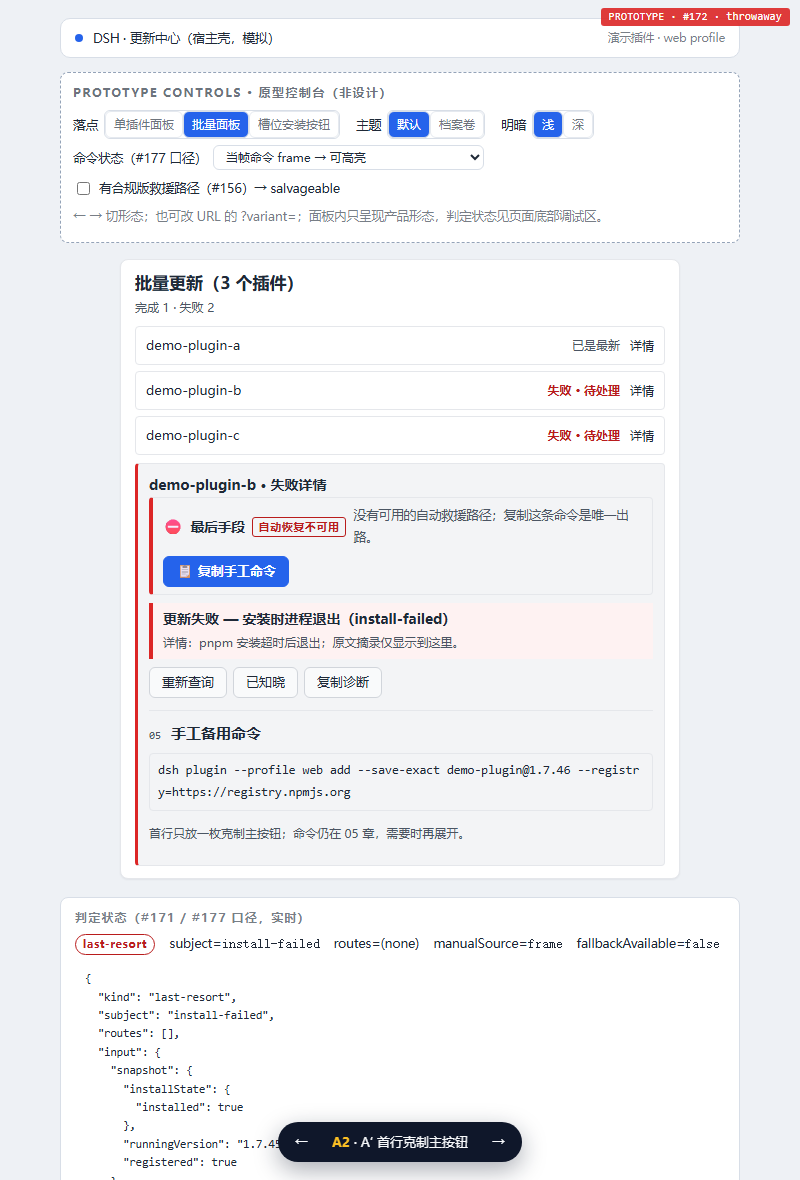
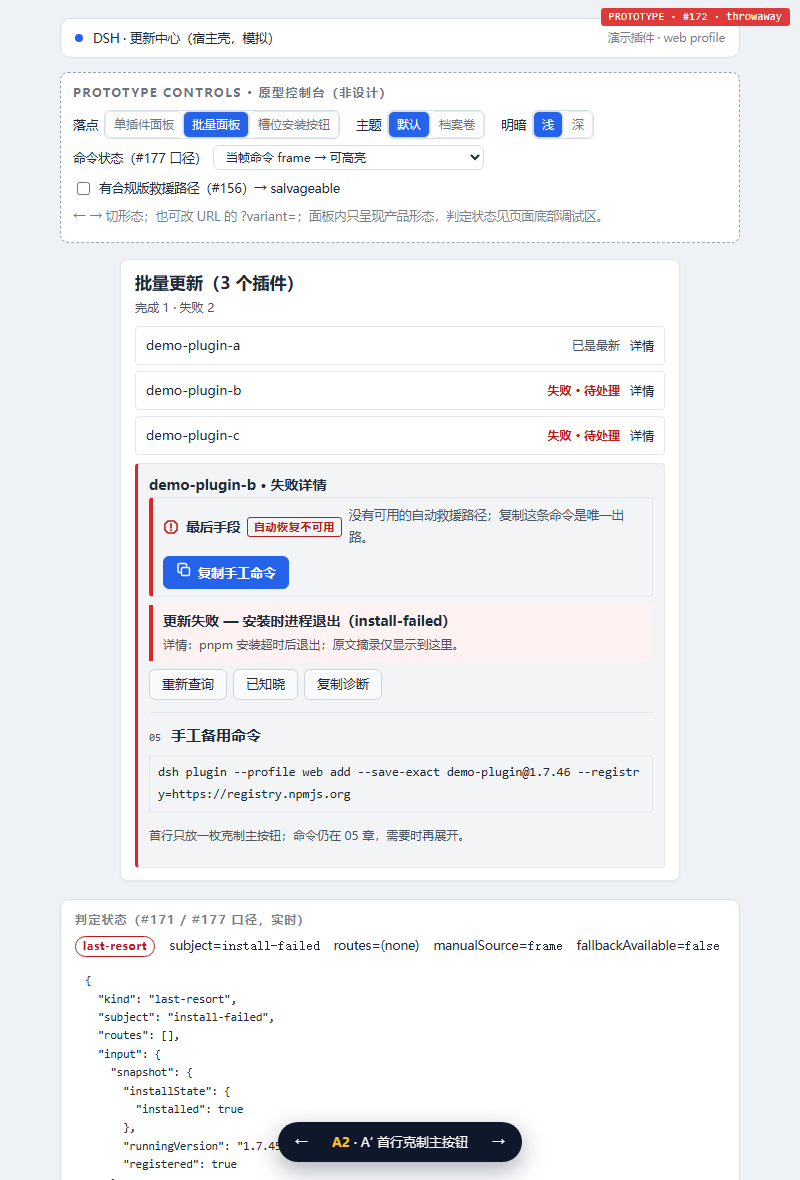
prototype(#172): 去 emoji 改内联 SVG 图标，补按钮交互与复制反馈

diff --git a/src/prototypes/172-last-resort.html b/src/prototypes/172-last-resort.html
@@ -179,7 +179,22 @@
     padding: 0 6px; border-radius: var(--dsh-update-radius-badge);
     border: 1px solid currentColor; vertical-align: 1px;
   }
-  .lr-icon { font-size: 15px; line-height: 1; }
+  .lr-icon { font-size: 15px; line-height: 1; display: inline-flex; align-items: center; }
+  .lr-icon svg { display: block; }
+  .lr-B .lr-icon svg { width: 22px; height: 22px; }
+
+  /* 按钮交互效果（实现规格同源）：hover 提亮 / active 下压 / focus-visible 焦点环 / 复制成功反馈 */
+  .dsh-upd button {
+    cursor: pointer;
+    transition: background-color 120ms ease, border-color 120ms ease, color 120ms ease,
+      filter 120ms ease, transform 80ms ease, box-shadow 120ms ease;
+  }
+  .dsh-upd button:hover { filter: brightness(1.06); }
+  .dsh-upd button:active { transform: translateY(1px); filter: brightness(.97); }
+  .dsh-upd button:focus-visible { outline: 2px solid var(--dsh-update-primary); outline-offset: 2px; }
+  .dsh-upd button:disabled { cursor: default; filter: none; }
+  .dsh-upd button.copied { box-shadow: 0 0 0 2px var(--dsh-update-bg, #fff), 0 0 0 4px var(--dsh-update-bad-border); }
+  .dsh-upd button.cta .icon { margin-right: 6px; }
 
   /* A：告警条内联主按钮（失败横幅第一行） */
   .lr-A { border: 2px solid var(--dsh-update-bad-border); border-radius: 6px; background: var(--dsh-update-bad-bg); padding: 9px 11px; margin: 0 0 8px; }
@@ -217,7 +232,7 @@
   /* C：动作行前置主按钮（结构不动，只把按钮拉到第一颗并升主按钮） */
   .lr-C .promote { display: flex; align-items: center; gap: 8px; margin: 0 0 6px; font-size: 12.5px; color: var(--dsh-update-bad-text); }
   .lr-C .actions button.cta { font-weight: 700; }
-  .lr-C .actions button.cta::after { content: " →"; }
+
 
   /* D：加码档——失败块顶部通栏警示条 + 大号入口 */
   .lr-D .stripbar {
@@ -440,13 +455,31 @@ function nonLastResortBlock() {
 }
 
 /* ───────────────────────── 四档形态 ───────────────────────── */
+function iconSvg(kind) {
+  var head = 'viewBox="0 0 16 16" fill="none" xmlns="http://www.w3.org/2000/svg" aria-hidden="true" focusable="false"';
+  if (kind === 'alert') {
+    return '<svg class="icon" width="16" height="16" ' + head + '>' +
+      '<path d="M5.1 1.9h5.8l3.2 3.2v5.8l-3.2 3.2H5.1l-3.2-3.2V5.1l3.2-3.2Z" stroke="currentColor" stroke-width="1.5" stroke-linejoin="round"/>' +
+      '<path d="M8 4.9v3.9" stroke="currentColor" stroke-width="1.7" stroke-linecap="round"/>' +
+      '<circle cx="8" cy="11.2" r="0.95" fill="currentColor"/>' +
+    '</svg>';
+  }
+  if (kind === 'copy') {
+    return '<svg class="icon" width="16" height="16" ' + head + '>' +
+      '<rect x="5.4" y="5.4" width="8.1" height="8.1" rx="1.6" stroke="currentColor" stroke-width="1.5"/>' +
+      '<path d="M10.6 3.9v-.7c0-.9-.7-1.6-1.6-1.6H3.6c-.9 0-1.6.7-1.6 1.6v5.8c0 .9.7 1.6 1.6 1.6H4.3" stroke="currentColor" stroke-width="1.5" stroke-linecap="round"/>' +
+    '</svg>';
+  }
+  return '';
+}
+
 function blockA() {
   return '' +
     '<div class="lr-A" data-last-resort="1">' +
-      '<div class="row1"><span class="lr-icon">⛔</span><strong>最后手段</strong>' +
+      '<div class="row1"><span class="lr-icon">' + iconSvg('alert') + '</span><strong>最后手段</strong>' +
         '<span class="lr-label">自动恢复不可用</span></div>' +
       '<div class="row2"><span class="reason">没有可用的自动救援路径；复制这条命令是唯一出路。</span>' +
-        '<button type="button" class="primary cta">📋 复制手工命令</button></div>' +
+        '<button type="button" class="primary cta">' + iconSvg('copy') + '复制手工命令</button></div>' +
       commandLine() +
     '</div>' + banner() +
     '<div class="actions">' + subActions(true) + '</div>' +
@@ -456,10 +489,10 @@ function blockA() {
 function blockA2() {
   return '' +
     '<div class="lr-A2" data-last-resort="1">' +
-      '<span class="lr-icon">⛔</span><strong>最后手段</strong>' +
+      '<span class="lr-icon">' + iconSvg('alert') + '</span><strong>最后手段</strong>' +
       '<span class="lr-label">自动恢复不可用</span>' +
       '<span class="reason">没有可用的自动救援路径；复制这条命令是唯一出路。</span>' +
-      '<button type="button" class="primary cta">📋 复制手工命令</button>' +
+      '<button type="button" class="primary cta">' + iconSvg('copy') + '复制手工命令</button>' +
     '</div>' + banner() +
     '<div class="actions">' + subActions() + '</div>' +
     '<div class="chapter"><div class="chap-head"><span class="chap-no">05</span><h3 class="chap-title">手工备用命令</h3></div>' +
@@ -483,10 +516,10 @@ function blockB() {
 function blockC() {
   return '' +
     '<div class="lr-C" data-last-resort="1">' +
-      '<div class="promote"><span class="lr-icon">⛔</span><b>自动恢复不可用</b>：这次失败只能复制手工命令执行</div>' +
+      '<div class="promote"><span class="lr-icon">' + iconSvg('alert') + '</span><b>自动恢复不可用</b>：这次失败只能复制手工命令执行</div>' +
       banner() +
       '<div class="actions">' +
-        '<button type="button" class="primary cta">📋 复制手工命令</button>' + subActions(false) +
+        '<button type="button" class="primary cta">' + iconSvg('copy') + '复制手工命令</button>' + subActions(false) +
       '</div>' +
       '<details open class="chapter"><summary>05 · 手工备用命令</summary>' + commandLine() +
         '<p class="note">按钮已前置到动作行第一颗；不再混在次要按钮里。</p></details>' +
@@ -496,11 +529,11 @@ function blockD() {
   return '' +
     '<div class="lr-D" data-last-resort="1">' +
       '<div class="stripbar">' +
-        '<span class="lr-icon">⛔</span>' +
+        '<span class="lr-icon">' + iconSvg('alert') + '</span>' +
         '<strong>最后手段</strong>' +
         '<span class="lr-label label-ondark">自动恢复不可用</span>' +
         '<span class="spacer"></span>' +
-        '<button type="button" class="cta">📋 复制手工命令</button>' +
+        '<button type="button" class="cta">' + iconSvg('copy') + '复制手工命令</button>' +
       '</div>' +
       banner() + commandLine() +
       '<div class="actions">' + subActions(true) + '</div>' +
@@ -626,6 +659,22 @@ document.addEventListener('keydown', ev => {
 
 /* 初始 */
 setState({});
+
+// 原型交互演示：复制按钮 hover/active/focus 由 CSS 负责；这里演示点击后的「已复制」反馈。
+document.addEventListener('click', function (event) {
+  var target = event.target;
+  var button = target && target.closest ? target.closest('.dsh-upd button.cta') : null;
+  if (!button || button.dataset.busy === '1') return;
+  button.dataset.busy = '1';
+  var original = button.innerHTML;
+  button.innerHTML = iconSvg('copy') + '已复制';
+  button.classList.add('copied');
+  setTimeout(function () {
+    button.innerHTML = original;
+    button.classList.remove('copied');
+    delete button.dataset.busy;
+  }, 1200);
+});
 </script>
 </body>
 </html>
